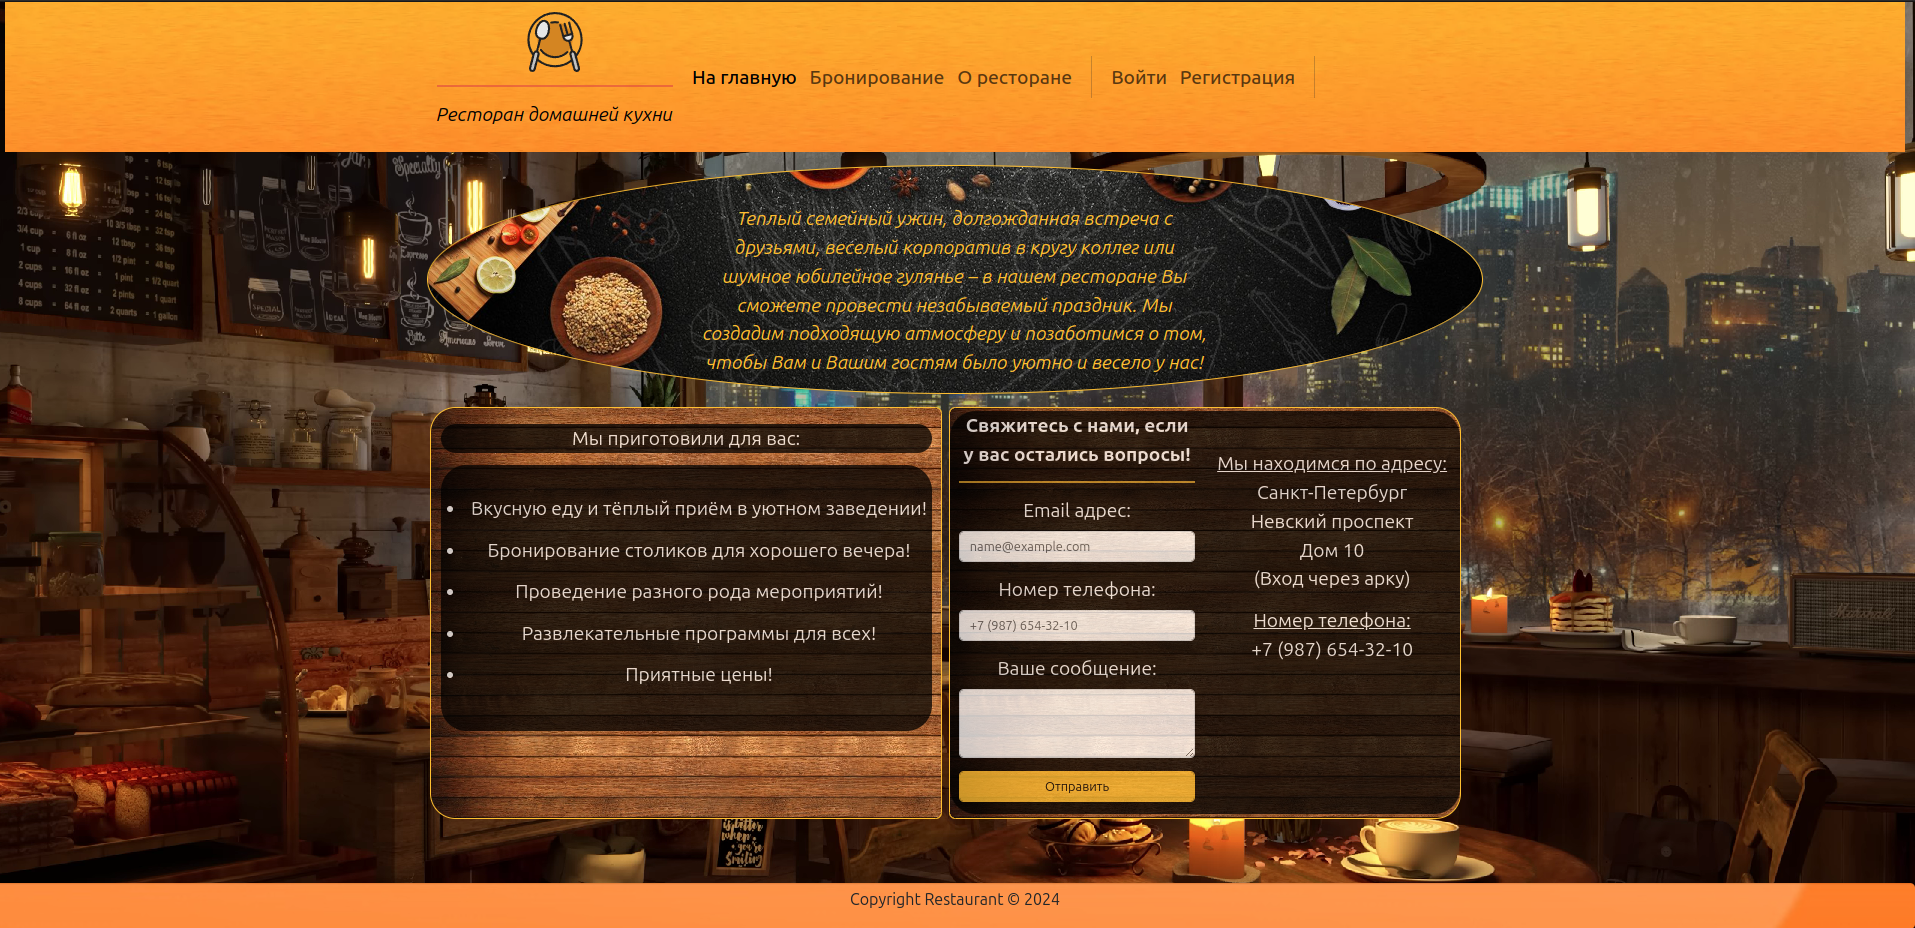
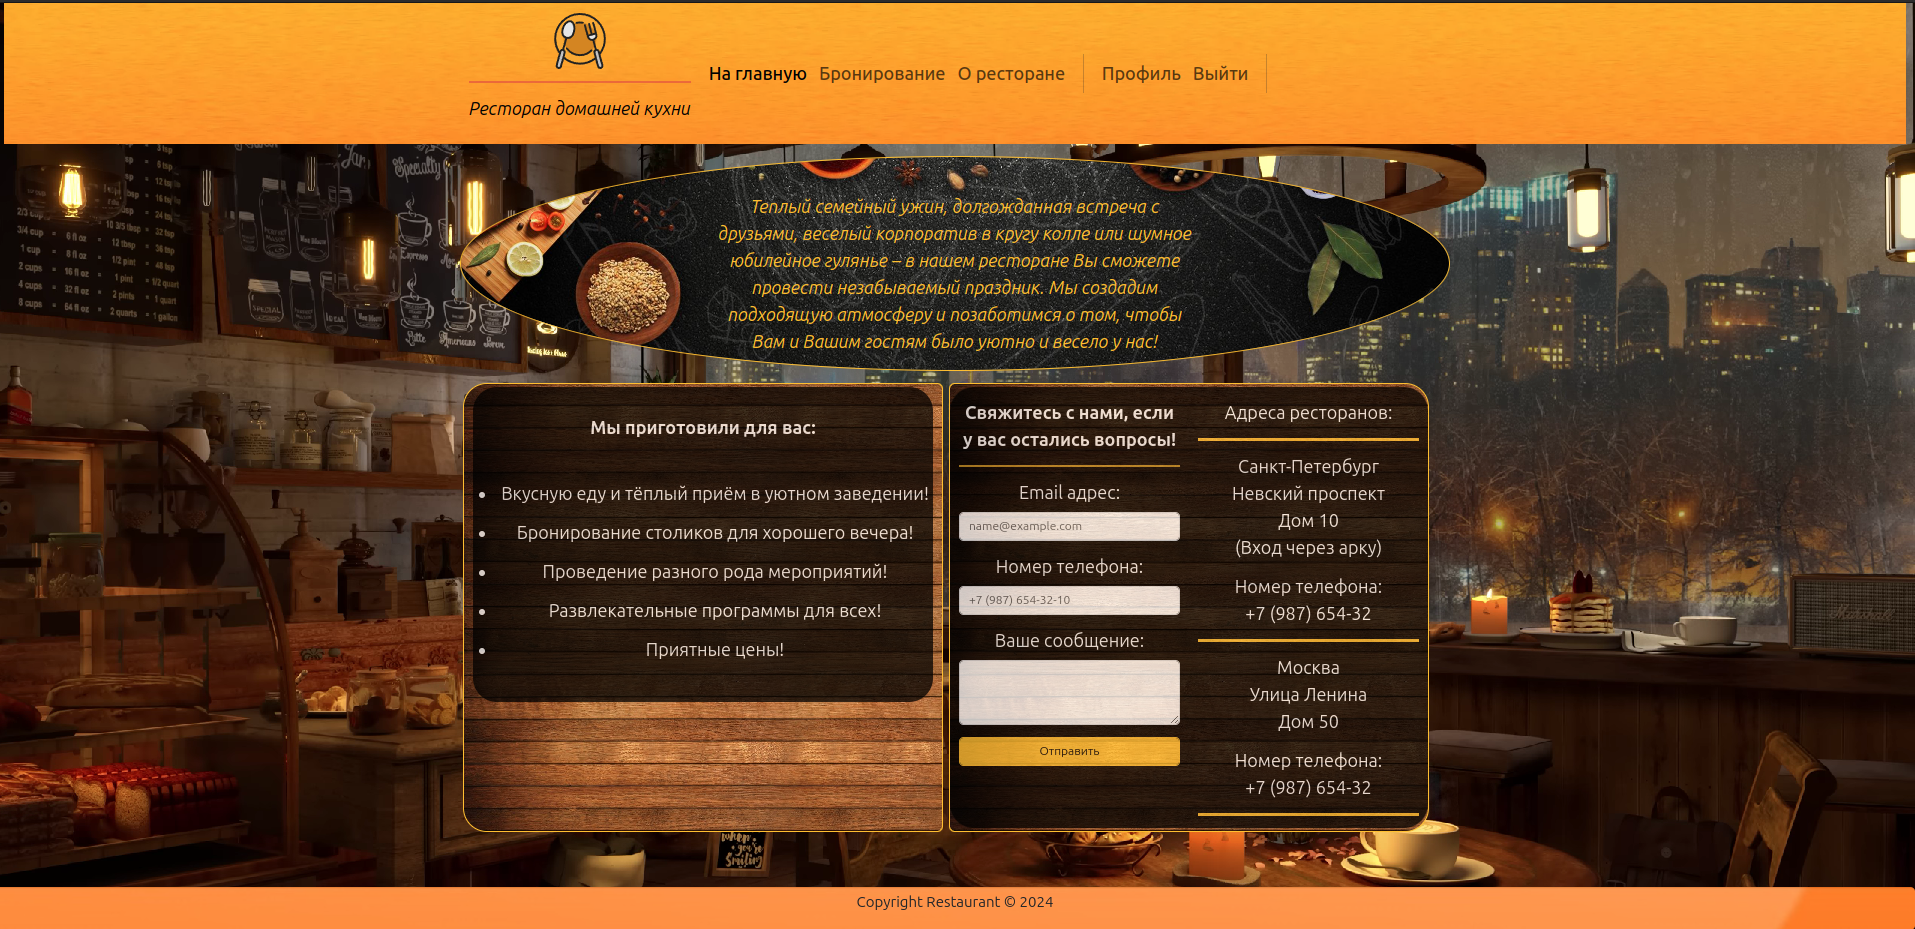
Added function for edited background of description from admin-panel. Added block and page for history reservations of user.

diff --git a/users/templates/users/user_detail.html b/users/templates/users/user_detail.html
@@ -1,7 +1,7 @@
 {% extends 'restaurant/base.html' %}
 {% load static %}
 {% block content %}
-<form class="row mt-3 col-6 position-absolute top-50 start-50 translate-middle" method="post"
+<form class="row mt-3 col-6 position-fixed top-50 start-50 translate-middle" method="post"
       enctype="multipart/form-data">
 
     <div class="bg-image card rounded-5"
@@ -12,39 +12,48 @@
             </h3>
         </div>
 
-        <div class="card-body mb-3 mt-3 text-white text-center">
+        <div class="container mb-3 mt-3 text-white text-center">
             <div class="row">
                 <div class="col-6 text-center">
                     <img width="300" height="300" src={{object.avatar.url}}>
                 </div>
                 <div class="col-6 bg-black opacity-75 rounded-5">
-                <table>
-                    <tr>
-                        <th>Email:</th>
-                        <td>{{object.email}}</td>
-                    </tr>
-                    <tr>
-                        <th>Имя:</th>
-                        <td colspan="2">{{object.first_name}}</td>
-                    </tr>
-                    <tr>
-                        <th>Фамилия:</th>
-                        <td>{{object.last_name}}</td>
-                    </tr>
-                </table>
+                    <table class="table table-dark mt-3 table-bordered">
+                        <tr>
+                            <th>Email:</th>
+                            <td>{{object.email}}</td>
+                        </tr>
+                        <tr>
+                            <th>Имя:</th>
+                            <td colspan="2">{{object.first_name}}</td>
+                        </tr>
+                        <tr>
+                            <th>Фамилия:</th>
+                            <td>{{object.last_name}}</td>
+                        </tr>
+                    </table>
+                    <div class="row">
+                        <div class="col-12">
+                            {% include 'reservations/reservations_list.html'%}
+                        </div>
                     </div>
+                </div>
 
             </div>
 
             <div class="card-body">
                 <div class="row">
-                    <div class="col-6">
+                    <div class="col-4">
                         <a href="{% url 'users:user_update' object.pk %}" type="button"
-                           class="btn btn-dark form-control">Редактировать</a>
+                           class="btn btn-dark form-control">Редактировать профиль</a>
                     </div>
-                    <div class="col-6">
+                    <div class="col-4">
+                        <a href="{% url 'users:user_detail' pk=user.pk %}" type="button"
+                           class="btn btn-dark form-control">Управление текущими бронями</a>
+                    </div>
+                    <div class="col-4">
                         <a href="{% url 'users:user_delete' object.pk %}" type="button"
-                           class="btn btn-dark form-control">Удалить</a>
+                           class="btn btn-danger text-black form-control">Удалить аккаунт</a>
                     </div>
                 </div>
             </div>

diff --git a/restaurant/templates/restaurant/index.html b/restaurant/templates/restaurant/index.html
@@ -6,20 +6,20 @@
     <div class="col-12">
         <div class="container text-center mt-3 mb-5">
             <div class="row">
+                {% for object in description %}
                 <div class="form-control pb-1 pt-5 bg-image text-warning fs-4 fst-italic border-warning rounded-circle"
-                     style="background-image: url('{% static 'img/about.png' %}'); background-size: cover;">
+                     style="background-image: url('{{ object.background.url }}'); background-size: cover;">
                     <div class="row">
                         <div class="col-3">
                         </div>
                         <div class="col-6">
-                            {% for object in description %}
                             <p>{{ object }}</p>
-                            {% endfor %}
                         </div>
                         <div class="col-3">
                         </div>
                     </div>
                 </div>
+                {% endfor %}
             </div>
             <div class="row col-12 mt-3 ">
                 <div class="col mx-1 pt-1 pb-1 bg-image text-white fs-4 border border-warning rounded-start-5 rounded-end-3 mb-5"
@@ -56,8 +56,9 @@
                                 <p class="mb-0">{{ object.city }}</p>
                                 <p class="mb-0">{{ object.street }}</p>
                                 <p class="mb-0">Дом {{ object.house_number }}</p>
+                                {% if object.extra %}
                                 <p class="mb-0">{{ object.extra }}</p>
-
+                                {% endif %}
                                 <p class="mt-3 mb-0">Номер телефона:</p>
                                 <p class="mb-0">{{ object.phone }}</p>
                                 <hr class="border-5 border-warning opacity-100">

diff --git a/restaurant/templates/restaurant/includes/inc_menu.html b/restaurant/templates/restaurant/includes/inc_menu.html
@@ -27,17 +27,17 @@
                 {% if user.is_authenticated %}
                 <li class="nav-item">
                     <div class="col">
-                        <form method="post" action="{% url 'users:logout' %}">
-                            {% csrf_token %}
-                            <button class="nav-link" type="submit">Выйти</button>
-                        </form>
+                        <div class="col">
+                            <a class="nav-link" href="{% url 'users:user_detail' pk=user.pk %}">Профиль</a>
+                        </div>
                     </div>
                 </li>
                 <li class="nav-item">
                     <div class="col">
-                        <div class="col">
-                            <a class="nav-link" href="{% url 'users:user_detail' pk=user.pk %}">Профиль</a>
-                        </div>
+                        <form method="post" action="{% url 'users:logout' %}">
+                            {% csrf_token %}
+                            <button class="nav-link" type="submit">Выйти</button>
+                        </form>
                     </div>
                 </li>
 

diff --git a/users/templates/users/user_form.html b/users/templates/users/user_form.html
@@ -15,9 +15,11 @@
         <div class="card-body mb-3 mt-3 text-white bg-black opacity-75 rounded-5">
             {% csrf_token %}
             {{ form.as_p }}
-            <button type="submit" class="btn btn-warning form-control">
+            <button type="submit" class="btn btn-success form-control">
                 Сохранить
             </button>
+            <a href="{% url 'users:user_detail' pk=user.pk %}" type="button"
+                           class="btn btn-warning form-control">Вернуться</a>
         </div>
     </div>
 </form>

diff --git a/reservations/templates/reservations/reservations_list.html b/reservations/templates/reservations/reservations_list.html
@@ -1,0 +1,12 @@
+<div class="mt-3 bg-warning text-black form-control border-0">Историй бронирований:</div>
+<div class="container-fluid overflow-auto mb-4 mt-1" style="height: 100px;">
+    <table class="table table-dark table-sm">
+        {% for i in reservations %}
+        <tr>
+            <th>{{i.is_published}}:</th>
+            <td>{{i.is_published}}</td>
+            <td>{{i.is_published}}</td>
+        </tr>
+        {% endfor %}
+    </table>
+</div>

diff --git a/restaurant/models.py b/restaurant/models.py
@@ -10,6 +10,10 @@ def upload(self, filename):
     return 'staff/%s %s/%s' % (self.last_name, self.first_name, filename)
 
 
+def upload_for_bg(self, filename):
+    return 'bg/%s' % (filename, )
+
+
 class StaffRestaurant(models.Model):
     DAYS = ['дня', 'дней', 'день']
     MONTHS = ['месяца', 'месяцев', 'месяц']
@@ -126,7 +130,12 @@ class HistoryRestaurant(models.Model):
 
 class Description(models.Model):
     description = models.TextField(
-        verbose_name='Описание ресторана'
+        verbose_name='Описание ресторана',
+        **NULLABLE
+    )
+    background = models.ImageField(
+        upload_to=upload_for_bg,
+        verbose_name="Фон",
     )
     is_published = models.BooleanField(
         default=True,

diff --git a/users/views.py b/users/views.py
@@ -12,6 +12,7 @@ from django.views.generic import (CreateView, DeleteView, DetailView, FormView,
                                   TemplateView, UpdateView)
 
 from config import settings
+from restaurant.models import Services
 from users.forms import (CustomLoginForm, UserPasswordResetForm,
                          UserProfileForm, UserRegisterForm)
 from users.models import User
@@ -81,6 +82,11 @@ class EmailConfirmationSentView(TemplateView):
 
 class ProfileDetailView(LoginRequiredMixin, DetailView):
     model = User
+
+    def get_context_data(self, **kwargs):
+        context = super().get_context_data()
+        context['reservations'] = Services.objects.all()
+        return context
 
 
 class ProfileDeleteView(LoginRequiredMixin, DeleteView):

diff --git a/config/settings.py b/config/settings.py
@@ -128,8 +128,6 @@ STATIC_ROOT = BASE_DIR / "staticfiles"
 
 STATICFILES_DIRS = (
     BASE_DIR / "static",
-    BASE_DIR / "restaurant" / "static",
-    BASE_DIR / "users" / "static",
 )
 
 MEDIA_URL = "/media/"
@@ -149,8 +147,8 @@ EMAIL_HOST = config("EMAIL_HOST")
 EMAIL_PORT = config("EMAIL_PORT")
 EMAIL_HOST_USER = config("EMAIL_HOST_USER")
 EMAIL_HOST_PASSWORD = config("EMAIL_HOST_PASSWORD")
-EMAIL_USE_SSL = config("EMAIL_USE_SSL")
-EMAIL_USE_TLS = config("EMAIL_USE_TLS")
+EMAIL_USE_SSL = config("EMAIL_USE_SSL") == "True"
+EMAIL_USE_TLS = config("EMAIL_USE_TLS") == "True"
 EMAIL_BACKEND = "django.core.mail.backends.console.EmailBackend"
 
 SERVER_EMAIL = EMAIL_HOST_USER

diff --git a/restaurant/migrations/0017_description_background.py b/restaurant/migrations/0017_description_background.py
@@ -1,0 +1,25 @@
+# Generated by Django 5.1.3 on 2024-11-28 19:02
+
+import restaurant.models
+from django.db import migrations, models
+
+
+class Migration(migrations.Migration):
+
+    dependencies = [
+        ("restaurant", "0016_alter_contacts_extra_alter_contacts_phone"),
+    ]
+
+    operations = [
+        migrations.AddField(
+            model_name="description",
+            name="background",
+            field=models.ImageField(
+                blank=True,
+                default="non_avatar.png",
+                null=True,
+                upload_to=restaurant.models.upload_for_bg,
+                verbose_name="Фон",
+            ),
+        ),
+    ]

diff --git a/restaurant/migrations/0018_alter_description_background.py b/restaurant/migrations/0018_alter_description_background.py
@@ -1,0 +1,21 @@
+# Generated by Django 5.1.3 on 2024-11-28 19:03
+
+import restaurant.models
+from django.db import migrations, models
+
+
+class Migration(migrations.Migration):
+
+    dependencies = [
+        ("restaurant", "0017_description_background"),
+    ]
+
+    operations = [
+        migrations.AlterField(
+            model_name="description",
+            name="background",
+            field=models.ImageField(
+                upload_to=restaurant.models.upload_for_bg, verbose_name="Фон"
+            ),
+        ),
+    ]

diff --git a/restaurant/migrations/0019_alter_description_description.py b/restaurant/migrations/0019_alter_description_description.py
@@ -1,0 +1,20 @@
+# Generated by Django 5.1.3 on 2024-11-28 20:28
+
+from django.db import migrations, models
+
+
+class Migration(migrations.Migration):
+
+    dependencies = [
+        ("restaurant", "0018_alter_description_background"),
+    ]
+
+    operations = [
+        migrations.AlterField(
+            model_name="description",
+            name="description",
+            field=models.TextField(
+                blank=True, null=True, verbose_name="Описание ресторана"
+            ),
+        ),
+    ]

diff --git a/restaurant/views.py b/restaurant/views.py
@@ -28,7 +28,7 @@ class Index(TemplateView, FormView):
         phone = form.cleaned_data['phone']
         message = form.cleaned_data['message']
 
-        subject = 'Сообщение из формы обратной связи'
+        subject = f'Обратная связь для "Ресторан домашней кухни"'
         body = (f"Email: {email}\n"
                 f"Телефон: {phone}\n"
                 f"Сообщение:\n{message}")
